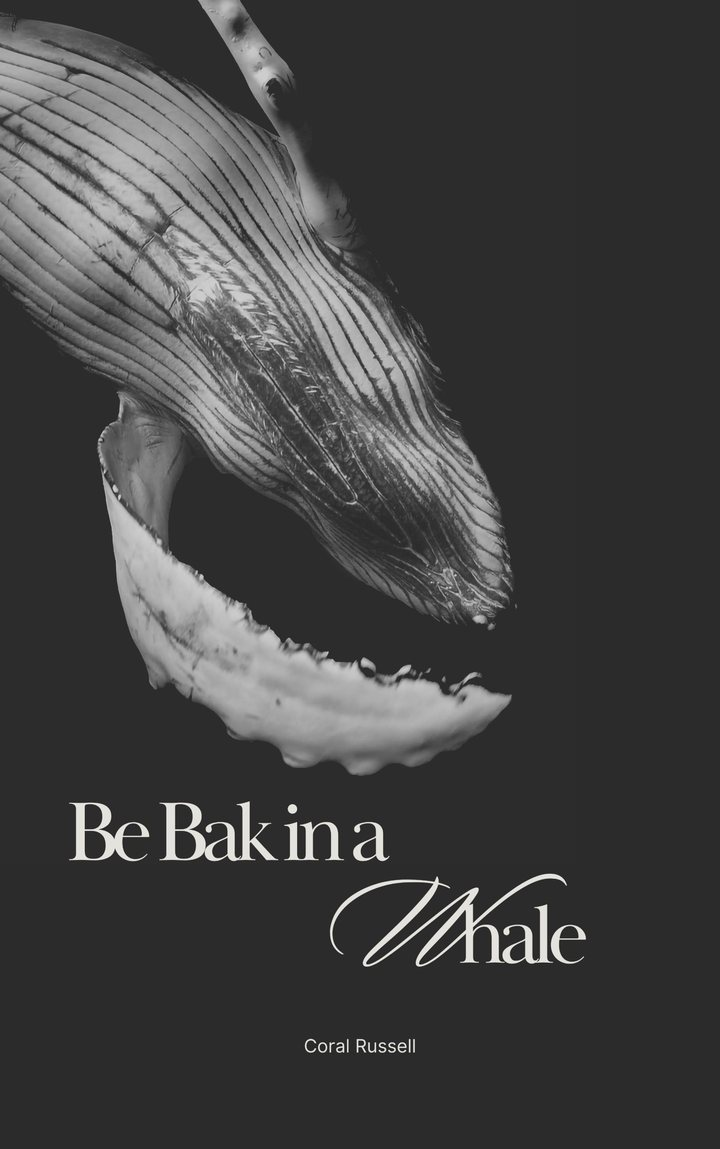
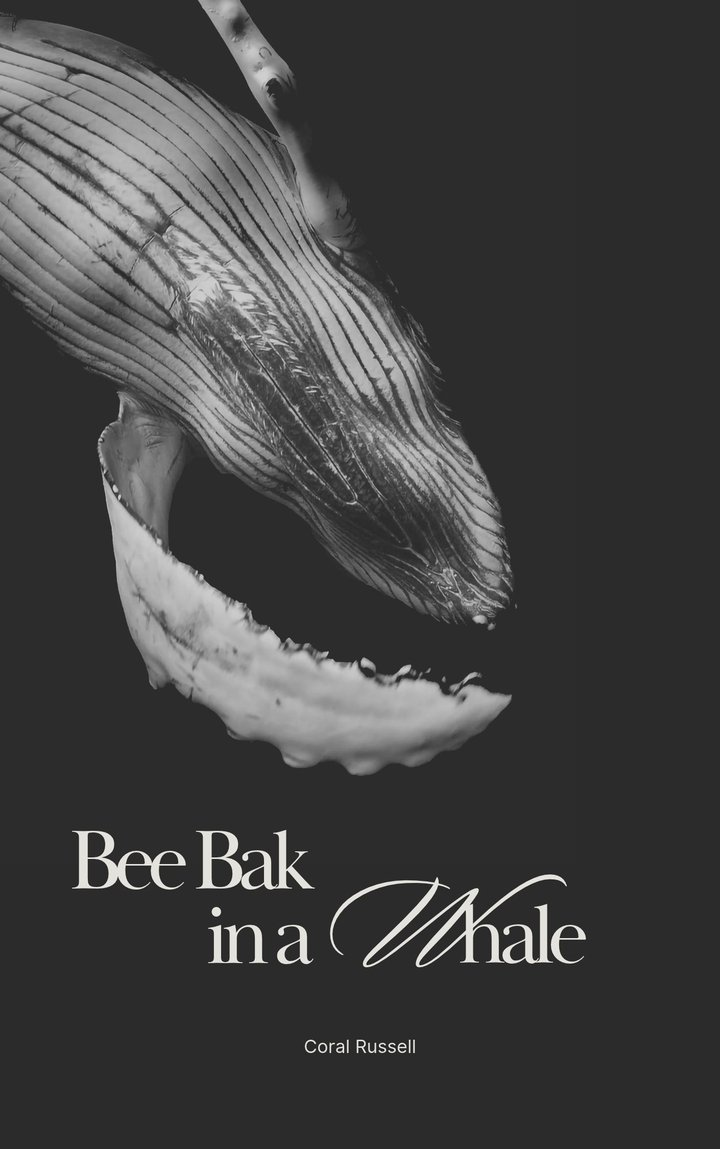
New Bee Bak in a Whale cover (#473)
Claude-Session: https://claude.ai/code/session_01BaBsSbYFatvE7LwS94RKua

Changed region(s): [[0.0917, 0.7006, 0.6722, 0.8529], [0.7028, 0.7615, 0.7639, 0.792], [0.4889, 0.8225, 0.55, 0.8529]]

diff --git a/TODO.md b/TODO.md
@@ -58,7 +58,7 @@ Rules for this pass (Coral):
 - After the pass: tools/book_wheel.py for EPUB and PDF in site/downloads, Download the book on wheel-and-spokes-home, Save this book offline button (OFF table in src/site.js, offline list in build.py).
 
 ## Next: The Deep Architecture revision (Coral, November 16, 2026; work starts November 17)
-Pages: architecture-home, deep-architecture-preface, and the essays in site/data/architecture.json (37 pages, about 65,000 words, six Movements). The book was written with five pillars; it is being brought up to the Eleven Pillars of Radical Immanence and the updated To All My Darlings. Change items are D1, D2, ... (Current / Proposed / Why), nothing applied without Coral's OK. Next D number: D367. Step 1 done November 17: D11 to D31 applied (pillar names, Radical Immanence, Movement Two title, wrong pillar numbers, home note, Acts rewritten, Colony fixes, empty Related concepts removed, Feminist date, new Pillar 6 to 11 passages). Step 2 progress: Preface and the-wheel-and-the-spokes D32 to D45 (D39 dropped: the windmills in different chapters carry different meanings; D45 uses Young's own words from Friedman and Fuchs, Esther as Mr. Spitzer's "feminine counterpart" and "the mother of us all," quoting Gertrude Stein). the-wheel-of-fortune and each-clock-stopped-at-a-different-hour D46 to D55. the-problem-of-universals-deep-architecture and philosophy-as-structural-material D56 to D64. intertextuality-as-construction-method and the-poetry-as-architecture D66 to D77 (D65, the Joyce "preface" quotation, is Anais Nin's preface per Coral's Substack; attribution proposed again). D65 applied (Anais Nin's preface); history-as-contested-ground and the-feminist-architecture D78 to D83. the-religious-architecture and the-comic-architecture D84 to D92; "American Ulysses" (Nin) added to Intertextuality on Coral's source. all-reality-is-musical and the-lower-world-and-the-upper-world D93 to D105 (D96 dropped: Mr. Spitzer did take the alpenhorn; D94 and D98 point to Coral's "All the Darlings" Boethian map on character-hubs-home; D101 Dante check done, findings D102 to D105). the-garden-the-stream-and-the-blind-god and the-world-as-will D106 to D120 (checked against Coral's PDFs of The Garden of Epicurus, Allinson 1908, and The Revolt of the Angels). Held for later: The Garden of Epicurus opens on the old Earth-centered cosmos with Hell beneath and the spheres above (use in the Lower World essay or new essays). not-the-overman and the-grey-goose-bus-as-cosmic-vehicle D121 to D133. Second text of the novel (Coral, November 17): the newest Dalkey Archive edition PDF, split into chapters in the scratchpad dk/dN.txt; both texts have typos, different ones, so check every quotation against both. Noted: the last page reads "Esther Longtree would come." in the new edition and "Esther Longtree would be me." in the working copy; check the Conclusion (D1) quotation against a print copy. the-windmill-in-the-flooded-field and the-search-for-life-for-love-for-truth-that-does-not-fail D134 to D145. Coral will check the print edition for "Esther Longtree would be me / would come" and "bee / Bee bak" when they come up (Search essay still says "Esther Longtree would be her"; Conclusion D1). nearly-four-thousand-questions and what-the-names-know D146 to D171 (questions recounted in both texts; Project Gutenberg comparison from Tatlock 2018; Esther and Venus, the morning and evening star, Ch 73; Peron from Peter, the rock). "Definition from research" heading removed from all 36 essays (Coral, November 17). Word pass D172 to D223: "precise" cut from 34 to 2 and "particular" trimmed outside The Problem of Universals (Coral, November 17). Pillars and spokes (Coral, November 17): the philosophy keeps the name Eleven Pillars; Young's method is the wheel, characters and ideas as spokes. W615 (Wheel home) and D224 (Wheel and the Spokes essay) explain this; no site-wide rename. the-oceans-love-to-cynthia and the-glittering-eye D225 to D250 (Raleigh named in Ch 11 and 53; moon lines are Ch 17, 18, 55, 82; "Water, water everywhere" is the rich man in the landlord's story, Ch 68; weddings and funerals Ch 32 and 49). D251 (Coral, November 17): "oceanic music" is credited to the publisher's description of the novel (no date); "bring back to the shore the wave which carried you" is Anais Nin's 1966 review "One Writer's Version of a Complete Universe" (Los Angeles Times, January 9, 1966), printed as the preface on Coral's Substack. The Three Journeys essay uses the same "wave" line: credit it the same way. Coral's Substack (coralrussell.substack.com) holds the praise, the "Marguerite Vivian Young" note, and Nin's preface: search it for sources. D252: Odyssey Book 22 hanged maids ("their feet twittering like birds," Ch 2) added to the Search essay. D253 to D255: the Egyptian sailor (Ch 2) finds Joachim instead of Peron and is put out of the house; he is "drowned," not shipwrecked. D258 and D259: Glittering Eye gets Young's Terkel interview (WFMT, October 27, 1965): "the secret heart of my novel is the albatross and guilt," Catherine's birthmark as the albatross, Coleridge's choice; the hangman Mr. Weed and his galoshes (Ch 68). D256 and D257: every pillar mention linked to its pillar page; first body mention of "Radical Immanence" on each page linked to radical-immanence-the-philosophy-of-marguerite-young. Pillar naming, middle way (Coral, November 17): pillars are named in the body only in Movement Two and in the closing "Radical Immanence Reading" sections; elsewhere the observation stays and the label goes; each essay that touches pillars has a "Pillars:" line at the top; the Preface points to The Wheel and the Spokes for the chapter-by-chapter tracing. Apply the same in every later pass. Headings (Coral, November 17): no roman numerals in headings; section headings are h2 and sub-headings h3 throughout the book. the-thousand-nights and three-journeys-without-arrival D260 to D285 ("Arabian Nights of American life" and "picaresque" are the publisher's description; "abandon one's self to the detours" is Anais Nin; Scheherazade, the Arabian Nights, and Sinbad are not named in the novel; Charon's unpaid fares are old Doc's patients; the four evangelists stand at the bus driver's bedposts). married-to-the-movement and childe-roland-to-the-dark-tower D286 to D306 ("Al Hamad" is the publisher's description; "crying at many gates" in Ch 47 is Cousin Hannah after her death, not Catherine; Mr. Spitzer composes Hannah's epitaph, Ch 31). the-pale-don-juan and that-man-who-was-herself D307 to D319 (the pale Don Juan is Cousin Hannah at her deathbed, Ch 43, not Catherine; her dying cries are for a woman she loved, lost in the snow, Ch 43 and 44; essay retitled "Cousin Hannah at the Threshold of Death"; D198 had wrongly put Catherine in it; Lady Macbeth is Ch 54). D320: Childe Roland opens with Young on Browning from the interviews (1983 AAPL, Ruas, Neville, Our Darling Part 2). E1625: Young's Browning teacher is Katharine Merrill Graydon (1858 to 1934), niece of Catharine Merrill, on the interview pages. D321: Preface adds Young's 1936 Chicago master's thesis on the birds and beasts of Lyly's Euphues (Eichenlaub, Review of Contemporary Fiction, 2000; Paris Review). lovers-never-mated and the-grief-you-are-wearing D322 to D337 (page seven and the pennies are Cousin Hannah after her death, Ch 52, not Catherine; Arnold's Tristram and Iseult has three parts and is not in the novel; Mr. Spitzer's right hand does witness his will, Ch 62). the-impossible-artist and the-novel-as-classroom D338 to D350 (pebbles, "motifs of life," "obsession is what possesses people," and "fullness and completeness of the motion" are Young as quoted by Nin, Los Angeles Times 1966; the writing-students "enacted" line cut, no source found; "sixteen years" now eighteen in both). From Coral's reading: Young said in an interview she would not live long enough to write a book about writing (Coral's Substack Masterclass post; interview not yet named). the-colony-under-no-flag and whatever-is-average-is-the-dream D351 to D364 ("Dream on—dream on—for life is imaginary," Ch 82; D356 adds the Magical Negro trope from TAMD Ch 82 to both). STEP 2 DONE (all 37 essays). Print edition check (Coral, November 17): the last page reads "Esther Longtree would come." and "Bee bak in a whale." (capital B), as in the Dalkey text; the old working copy's "Esther Longtree would be me," "bee bak," and "the old mule that climbed over the fence" (print: "leaned") look like edition differences. D365 and D366 fix the Search essay. Use the print reading in the Conclusion (D1, Step 3). Other books still quote "would be me" and "bee bak": chapters.json ch 82, concepts.json (vera-cartwheel, esther-longtree), hubs, nav arc-9, essays.json (philosophy-06, -18, -19, -20, -23, comedy-conclusion, comedy-chapter-82, reality-08), guide.json guide-82, ri.json (whale-01, writing-life-02, writing-life-06), wheel.json wheel-chapter-82, plus society.json (Be Bak in a Whale link) and woman.json chapter 82. All fixed November 18 (Coral): E1626 to E1644, G208 to G212, W616 to W617; the rewrites recast Esther as the last wedding guest, who "would come," "for she was also our love, all our loves" (the Wheel block quotation had "all her loves"). Downloads rebuilt for To All My Darlings (now 1,799 pages), the Guide, Exploring Reality and Illusion, and the Wheel. E1645 (whale-01: Vera "planned," not "threw," the wedding) and E1646 (book retitled "Bee Bak in a Whale," Coral, November 17) applied. The cover image img/covers/whale-home.jpg still reads "Be Bak"; Coral to replace it. Next: Step 3. Saved for Step 2: Colony quotes "dream on, for life is imaginary" (novel: "Dream on—dream on—for life is imaginary"); Impossible Artist says sixteen years (others say eighteen).
+Pages: architecture-home, deep-architecture-preface, and the essays in site/data/architecture.json (37 pages, about 65,000 words, six Movements). The book was written with five pillars; it is being brought up to the Eleven Pillars of Radical Immanence and the updated To All My Darlings. Change items are D1, D2, ... (Current / Proposed / Why), nothing applied without Coral's OK. Next D number: D367. Step 1 done November 17: D11 to D31 applied (pillar names, Radical Immanence, Movement Two title, wrong pillar numbers, home note, Acts rewritten, Colony fixes, empty Related concepts removed, Feminist date, new Pillar 6 to 11 passages). Step 2 progress: Preface and the-wheel-and-the-spokes D32 to D45 (D39 dropped: the windmills in different chapters carry different meanings; D45 uses Young's own words from Friedman and Fuchs, Esther as Mr. Spitzer's "feminine counterpart" and "the mother of us all," quoting Gertrude Stein). the-wheel-of-fortune and each-clock-stopped-at-a-different-hour D46 to D55. the-problem-of-universals-deep-architecture and philosophy-as-structural-material D56 to D64. intertextuality-as-construction-method and the-poetry-as-architecture D66 to D77 (D65, the Joyce "preface" quotation, is Anais Nin's preface per Coral's Substack; attribution proposed again). D65 applied (Anais Nin's preface); history-as-contested-ground and the-feminist-architecture D78 to D83. the-religious-architecture and the-comic-architecture D84 to D92; "American Ulysses" (Nin) added to Intertextuality on Coral's source. all-reality-is-musical and the-lower-world-and-the-upper-world D93 to D105 (D96 dropped: Mr. Spitzer did take the alpenhorn; D94 and D98 point to Coral's "All the Darlings" Boethian map on character-hubs-home; D101 Dante check done, findings D102 to D105). the-garden-the-stream-and-the-blind-god and the-world-as-will D106 to D120 (checked against Coral's PDFs of The Garden of Epicurus, Allinson 1908, and The Revolt of the Angels). Held for later: The Garden of Epicurus opens on the old Earth-centered cosmos with Hell beneath and the spheres above (use in the Lower World essay or new essays). not-the-overman and the-grey-goose-bus-as-cosmic-vehicle D121 to D133. Second text of the novel (Coral, November 17): the newest Dalkey Archive edition PDF, split into chapters in the scratchpad dk/dN.txt; both texts have typos, different ones, so check every quotation against both. Noted: the last page reads "Esther Longtree would come." in the new edition and "Esther Longtree would be me." in the working copy; check the Conclusion (D1) quotation against a print copy. the-windmill-in-the-flooded-field and the-search-for-life-for-love-for-truth-that-does-not-fail D134 to D145. Coral will check the print edition for "Esther Longtree would be me / would come" and "bee / Bee bak" when they come up (Search essay still says "Esther Longtree would be her"; Conclusion D1). nearly-four-thousand-questions and what-the-names-know D146 to D171 (questions recounted in both texts; Project Gutenberg comparison from Tatlock 2018; Esther and Venus, the morning and evening star, Ch 73; Peron from Peter, the rock). "Definition from research" heading removed from all 36 essays (Coral, November 17). Word pass D172 to D223: "precise" cut from 34 to 2 and "particular" trimmed outside The Problem of Universals (Coral, November 17). Pillars and spokes (Coral, November 17): the philosophy keeps the name Eleven Pillars; Young's method is the wheel, characters and ideas as spokes. W615 (Wheel home) and D224 (Wheel and the Spokes essay) explain this; no site-wide rename. the-oceans-love-to-cynthia and the-glittering-eye D225 to D250 (Raleigh named in Ch 11 and 53; moon lines are Ch 17, 18, 55, 82; "Water, water everywhere" is the rich man in the landlord's story, Ch 68; weddings and funerals Ch 32 and 49). D251 (Coral, November 17): "oceanic music" is credited to the publisher's description of the novel (no date); "bring back to the shore the wave which carried you" is Anais Nin's 1966 review "One Writer's Version of a Complete Universe" (Los Angeles Times, January 9, 1966), printed as the preface on Coral's Substack. The Three Journeys essay uses the same "wave" line: credit it the same way. Coral's Substack (coralrussell.substack.com) holds the praise, the "Marguerite Vivian Young" note, and Nin's preface: search it for sources. D252: Odyssey Book 22 hanged maids ("their feet twittering like birds," Ch 2) added to the Search essay. D253 to D255: the Egyptian sailor (Ch 2) finds Joachim instead of Peron and is put out of the house; he is "drowned," not shipwrecked. D258 and D259: Glittering Eye gets Young's Terkel interview (WFMT, October 27, 1965): "the secret heart of my novel is the albatross and guilt," Catherine's birthmark as the albatross, Coleridge's choice; the hangman Mr. Weed and his galoshes (Ch 68). D256 and D257: every pillar mention linked to its pillar page; first body mention of "Radical Immanence" on each page linked to radical-immanence-the-philosophy-of-marguerite-young. Pillar naming, middle way (Coral, November 17): pillars are named in the body only in Movement Two and in the closing "Radical Immanence Reading" sections; elsewhere the observation stays and the label goes; each essay that touches pillars has a "Pillars:" line at the top; the Preface points to The Wheel and the Spokes for the chapter-by-chapter tracing. Apply the same in every later pass. Headings (Coral, November 17): no roman numerals in headings; section headings are h2 and sub-headings h3 throughout the book. the-thousand-nights and three-journeys-without-arrival D260 to D285 ("Arabian Nights of American life" and "picaresque" are the publisher's description; "abandon one's self to the detours" is Anais Nin; Scheherazade, the Arabian Nights, and Sinbad are not named in the novel; Charon's unpaid fares are old Doc's patients; the four evangelists stand at the bus driver's bedposts). married-to-the-movement and childe-roland-to-the-dark-tower D286 to D306 ("Al Hamad" is the publisher's description; "crying at many gates" in Ch 47 is Cousin Hannah after her death, not Catherine; Mr. Spitzer composes Hannah's epitaph, Ch 31). the-pale-don-juan and that-man-who-was-herself D307 to D319 (the pale Don Juan is Cousin Hannah at her deathbed, Ch 43, not Catherine; her dying cries are for a woman she loved, lost in the snow, Ch 43 and 44; essay retitled "Cousin Hannah at the Threshold of Death"; D198 had wrongly put Catherine in it; Lady Macbeth is Ch 54). D320: Childe Roland opens with Young on Browning from the interviews (1983 AAPL, Ruas, Neville, Our Darling Part 2). E1625: Young's Browning teacher is Katharine Merrill Graydon (1858 to 1934), niece of Catharine Merrill, on the interview pages. D321: Preface adds Young's 1936 Chicago master's thesis on the birds and beasts of Lyly's Euphues (Eichenlaub, Review of Contemporary Fiction, 2000; Paris Review). lovers-never-mated and the-grief-you-are-wearing D322 to D337 (page seven and the pennies are Cousin Hannah after her death, Ch 52, not Catherine; Arnold's Tristram and Iseult has three parts and is not in the novel; Mr. Spitzer's right hand does witness his will, Ch 62). the-impossible-artist and the-novel-as-classroom D338 to D350 (pebbles, "motifs of life," "obsession is what possesses people," and "fullness and completeness of the motion" are Young as quoted by Nin, Los Angeles Times 1966; the writing-students "enacted" line cut, no source found; "sixteen years" now eighteen in both). From Coral's reading: Young said in an interview she would not live long enough to write a book about writing (Coral's Substack Masterclass post; interview not yet named). the-colony-under-no-flag and whatever-is-average-is-the-dream D351 to D364 ("Dream on—dream on—for life is imaginary," Ch 82; D356 adds the Magical Negro trope from TAMD Ch 82 to both). STEP 2 DONE (all 37 essays). Print edition check (Coral, November 17): the last page reads "Esther Longtree would come." and "Bee bak in a whale." (capital B), as in the Dalkey text; the old working copy's "Esther Longtree would be me," "bee bak," and "the old mule that climbed over the fence" (print: "leaned") look like edition differences. D365 and D366 fix the Search essay. Use the print reading in the Conclusion (D1, Step 3). Other books still quote "would be me" and "bee bak": chapters.json ch 82, concepts.json (vera-cartwheel, esther-longtree), hubs, nav arc-9, essays.json (philosophy-06, -18, -19, -20, -23, comedy-conclusion, comedy-chapter-82, reality-08), guide.json guide-82, ri.json (whale-01, writing-life-02, writing-life-06), wheel.json wheel-chapter-82, plus society.json (Be Bak in a Whale link) and woman.json chapter 82. All fixed November 18 (Coral): E1626 to E1644, G208 to G212, W616 to W617; the rewrites recast Esther as the last wedding guest, who "would come," "for she was also our love, all our loves" (the Wheel block quotation had "all her loves"). Downloads rebuilt for To All My Darlings (now 1,799 pages), the Guide, Exploring Reality and Illusion, and the Wheel. E1645 (whale-01: Vera "planned," not "threw," the wedding) and E1646 (book retitled "Bee Bak in a Whale," Coral, November 17) applied. New "Bee Bak in a Whale" cover from Coral in img/covers/whale-home.jpg (November 17). Next: Step 3. Saved for Step 2: Colony quotes "dream on, for life is imaginary" (novel: "Dream on—dream on—for life is imaginary"); Impossible Artist says sixteen years (others say eighteen).
 Done November 16 (PR "Deep Architecture: D7, D9, D10"): D7 Preface question mark count now "nearly 4,000"; D9 James essay (the-garden-the-stream-and-the-blind-god) now shows Young breaking with James's "sensibly continuous" stream (Ch 48, Principles chapters 9 and 11, Abhidharma parallel); D10 the 1,198 and 1,200 page "signature" argument removed (Principles is well over 1,200 pages; Vol. 2 alone is 704), Young's own statements on James cited (AAPL 1983, Friedman and Fuchs 1989).
 Plan, in order:
 1. Pillar names: rename across all pages to the Eleven names and numbers ("five pillars" 21 times; plural self, recursive construction, illusion as primary; inconsistent numbering of recursive construction). Movement Two becomes "The Pillars in the Traditions"; "AND Philosophy" becomes Radical Immanence. Add Pillars 6 to 11 where essays already hold the material: Each Clock (Pillar 8), Questions and Names (Pillar 9), Colony and Feminist (Pillar 7), Religious and Lower World (Pillar 10), Impossible Artist and Childe Roland (Pillar 6), Wheel essay (Pillar 11 as the axis).
